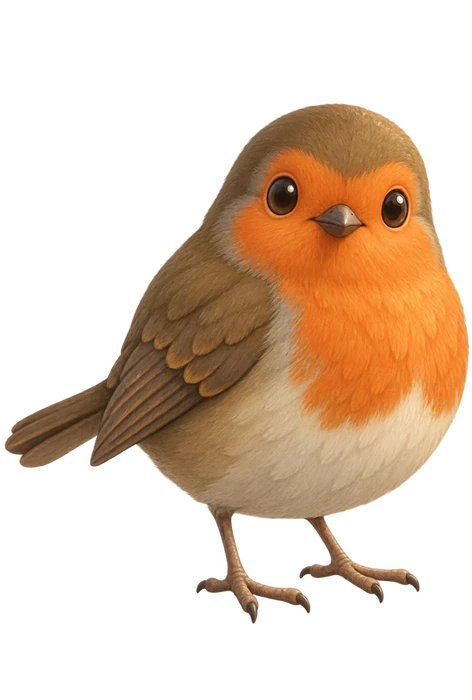
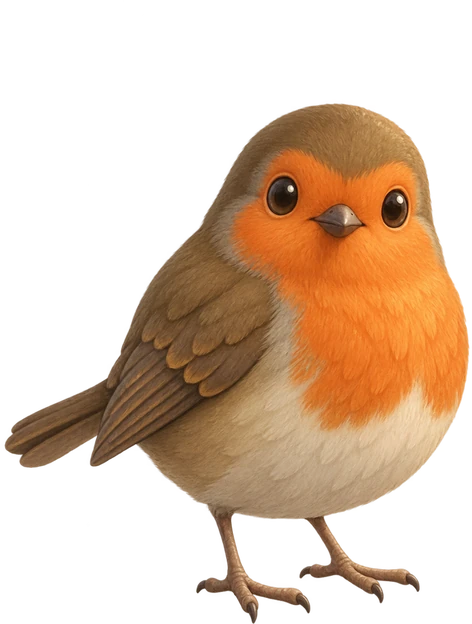
ftb: the robin stands on its perch, and the boot change stops breaking the harnesses
The robin floated above its pedestal and rendered small. One cause for both:
robin-plain.webp carried 76 transparent rows below the feet where all eight
other sanctuary sprites carry none, and SanctuaryPage bottom-aligns a bird onto
its anchor (top = anchor.y - renderedHeight). So 10.9% of the robin's height was
empty air resting on the perch, and its body was squeezed into the remaining
89%. Trimmed to the last opaque row, and its foot centre and costume height
scales recomputed from the trimmed sprite: the foot fraction was 0.5987 against
a measured 0.6568, which stood it left of the perch as well.

Measured, not eyeballed. The manifest's own footNote describes this exact
failure for the sparrow; the same measurement reproduces the shipped sparrow
scales (hat 1.2045 against 1.2033), which is what makes the robin's numbers
wrong rather than differently-derived. The sparrow and bluebird anchors were
checked against a render of the page's own placement maths and left alone.

Also from review of the branch:

- boot.spec, debug-autoplay and the runtime profile all wait for #home-shell,
  which a fresh install no longer opens on, so all four would have hung 30s and
  failed. They seed the first-launch flag and present as a returning player,
  which is the state they were always testing.
- levels.ts passed a hardcoded 'image/png' for every sprite blob, mislabelling
  the cache for assets that are now WebP. It uses mimeForAssetPath, which was
[…]

diff --git a/games/find_the_bird/src/config/remoteConfigSchema.ts b/games/find_the_bird/src/config/remoteConfigSchema.ts
@@ -1,33 +1,3 @@
-  //   L6  sparrow card (the Collection opens at L5, empty)
-  //   L10 build the nest box (4), on the level the Sanctuary opens
-  //   L15 sparrow hat (5)             L23 tier 2, which opens the robin (8)
-  //   L27 robin card (4)              L35 sparrow costume (8)
-  //   L39 tier 3 (4)                  L43 robin hat, which opens the bluebird (4)
-  //   L48 robin costume (5)           L57 bluebird card (9)
-  //   L70 bluebird hat (13)           L76 bluebird costume (6)
-  //
-  // The rungs are also capped by what a LATE opener can still find, since a
-  // species counts only from the level its card opens. At these numbers the
-  // sparrow has 210 laid down from the gate against 150 needed, the robin
-  // finishes even if its card opens as late as L45 (101 left against 100) and
-  // the bluebird as late as L65 (52 against 50) — both a shade better than the
-  // 2026-09-18 numbers, because the earlier gates lay more down. The order
-  // holds for a player who collects idle coins at any frequency and for one who
-  // buys a hint bundle every fifteen levels.
-  //
-  // The sparrow's costume went 130 -> 150 to keep it behind the robin card: at
-  // 130 the extra early supply pulled it forward onto the same level, which
-  // --coverage and the order check both caught.
-  //
-  // The bluebird's hat is the one gap over seven levels. It is the scarcest
-  // species that has card art, so its pace is supply-bound: fixing it properly
-  // means giving the third card a better-supplied species and regenerating its
-  // artwork, which was considered and declined.
-  //
-  // housePriceTier1 went 500 -> 400 with these gates: at 500 the nest box
-  // became buyable on L13, three levels after the Sanctuary opened, because the
-  // gate moved and the price did not. 400 is the stock a player holds arriving
-  // at L10, so the build lands on the level the tile opens, as it did before.
 import {
   booleanField,
   numberField,
@@ -174,6 +144,36 @@ export const REMOTE_CONFIG_DEFAULTS: RemoteConfigValues = {
   // Measured order for a player who banks their coins, by the level they are
   // ENTERING when the game offers it (both tiles are arrival-based), with the
   // gap in levels:
+  //   L6  sparrow card (the Collection opens at L5, empty)
+  //   L10 build the nest box (4), on the level the Sanctuary opens
+  //   L15 sparrow hat (5)             L23 tier 2, which opens the robin (8)
+  //   L27 robin card (4)              L35 sparrow costume (8)
+  //   L39 tier 3 (4)                  L43 robin hat, which opens the bluebird (4)
+  //   L48 robin costume (5)           L57 bluebird card (9)
+  //   L70 bluebird hat (13)           L76 bluebird costume (6)
+  //
+  // The rungs are also capped by what a LATE opener can still find, since a
+  // species counts only from the level its card opens. At these numbers the
+  // sparrow has 210 laid down from the gate against 150 needed, the robin
+  // finishes even if its card opens as late as L45 (101 left against 100) and
+  // the bluebird as late as L65 (52 against 50) — both a shade better than the
+  // 2026-09-18 numbers, because the earlier gates lay more down. The order
+  // holds for a player who collects idle coins at any frequency and for one who
+  // buys a hint bundle every fifteen levels.
+  //
+  // The sparrow's costume went 130 -> 150 to keep it behind the robin card: at
+  // 130 the extra early supply pulled it forward onto the same level, which
+  // --coverage and the order check both caught.
+  //
+  // The bluebird's hat is the one gap over seven levels. It is the scarcest
+  // species that has card art, so its pace is supply-bound: fixing it properly
+  // means giving the third card a better-supplied species and regenerating its
+  // artwork, which was considered and declined.
+  //
+  // housePriceTier1 went 500 -> 400 with these gates: at 500 the nest box
+  // became buyable on L13, three levels after the Sanctuary opened, because the
+  // gate moved and the price did not. 400 is the stock a player holds arriving
+  // at L10, so the build lands on the level the tile opens, as it did before.
   //   L12 sparrow card (the Collection opens at L10, empty)
   //   L15 build the nest box (3)      L20 sparrow hat (5)
   //   L25 tier 2, which opens the robin (5)      L32 robin card (7)

diff --git a/games/find_the_bird/tests/unit/meta-gate-defaults.test.ts b/games/find_the_bird/tests/unit/meta-gate-defaults.test.ts
@@ -1,0 +1,53 @@
+/**
+ * The shipped values of the gates and the sparrow ladder.
+ *
+ * The rest of the suite reads these numbers out of config to build its
+ * expectations, which makes those assertions true for any value — reverting
+ * a gate would not fail a single test. This file pins the numbers themselves,
+ * so a change to them has to be deliberate and has to come here.
+ *
+ * They are not arbitrary: tools/birdtypes/cadence_report.py walks a player
+ * through all 92 levels and checks the progression order holds. Re-run it
+ * (and --coverage) before changing anything here.
+ */
+import { describe, expect, it } from 'vitest';
+import { REMOTE_CONFIG_DEFAULTS } from '../../src/config/remoteConfigSchema';
+
+describe('meta gate + ladder defaults', () => {
+  it('opens the Collection at level 5 and the Sanctuary at level 10', () => {
+    expect(REMOTE_CONFIG_DEFAULTS.collectionUnlockLevel).toBe(5);
+    expect(REMOTE_CONFIG_DEFAULTS.sanctuaryUnlockLevel).toBe(10);
+  });
+
+  it('keeps the Sanctuary behind the Collection', () => {
+    expect(REMOTE_CONFIG_DEFAULTS.sanctuaryUnlockLevel)
+      .toBeGreaterThanOrEqual(REMOTE_CONFIG_DEFAULTS.collectionUnlockLevel);
+  });
+
+  it('pins the sparrow ladder the cadence report was run against', () => {
+    expect(REMOTE_CONFIG_DEFAULTS.sparrowTeaseCount).toBe(2);
+    expect(REMOTE_CONFIG_DEFAULTS.sparrowUnlockCount).toBe(5);
+    expect(REMOTE_CONFIG_DEFAULTS.sparrowHatCount).toBe(50);
+    expect(REMOTE_CONFIG_DEFAULTS.sparrowCardiganCount).toBe(150);
+  });
+
+  it('keeps every ladder monotonic, tease before unlock', () => {
+    for (const bird of ['sparrow', 'robin', 'bluebird'] as const) {
+      const unlock = REMOTE_CONFIG_DEFAULTS[`${bird}UnlockCount`];
+      const hat = REMOTE_CONFIG_DEFAULTS[`${bird}HatCount`];
+      const cardigan = REMOTE_CONFIG_DEFAULTS[`${bird}CardiganCount`];
+      expect(unlock, bird).toBeLessThan(hat);
+      expect(hat, bird).toBeLessThan(cardigan);
+    }
+    expect(REMOTE_CONFIG_DEFAULTS.sparrowTeaseCount)
+      .toBeLessThan(REMOTE_CONFIG_DEFAULTS.sparrowUnlockCount);
+  });
+
+  it('lands the nest box on the level the Sanctuary opens', () => {
+    // 45 coins a level, banked from level 1: the price is the stock a player
+    // holds on arrival at the gate. 400 -> L10, which is why it moved off 500.
+    expect(REMOTE_CONFIG_DEFAULTS.housePriceTier1).toBe(400);
+    const banked = 45 * (REMOTE_CONFIG_DEFAULTS.sanctuaryUnlockLevel - 1);
+    expect(REMOTE_CONFIG_DEFAULTS.housePriceTier1).toBeLessThanOrEqual(banked);
+  });
+});

diff --git a/games/find_the_bird/tests/e2e/boot.spec.ts b/games/find_the_bird/tests/e2e/boot.spec.ts
@@ -1,6 +1,9 @@
 import { createHash } from "node:crypto";
 import { readFileSync } from "node:fs";
 import { join } from "node:path";
+// A fresh install now boots into GameScene, so every spec that wants the home
+// menu has to present as a returning player. This seeds the one-shot flag
+// BootScene reads (GameState STORAGE_KEYS.FIRST_LAUNCH_DONE).
 import { test, expect } from "@playwright/test";
 
[1 lines of base64/hex data omitted]
@@ -13,6 +16,7 @@ function sha256File(path: string): string {
 }
 
 test("boots the real Find the Dog shell", async ({ page }) => {
+  await page.addInitScript(() => window.localStorage.setItem("ftb_first_launch_done", "1"));
   await page.goto("/");
   await expect(page.locator("#game-container")).toBeVisible();
   await expect(page.locator("#hud-overlay")).toBeAttached();
@@ -25,7 +29,10 @@ test("boots the real Find the Dog shell", async ({ page }) => {
 });
 
 test("Play Now starts the current level from a real menu tap", async ({ page }) => {
-  await page.addInitScript(() => window.localStorage.clear());
+  await page.addInitScript(() => {
+    window.localStorage.clear();
+    window.localStorage.setItem("ftb_first_launch_done", "1");
+  });
   await page.goto("/");
   await expect(page.locator("#home-play-now")).toBeVisible({ timeout: 30000 });
 
@@ -67,7 +74,10 @@ test.describe("home menu polish regressions", () => {
     expect(manifest.assets["design/assets/play-level-button-runtime.png"].sha256).toBe(PLAY_BUTTON_SHA256);
     expect(manifest.assets["design/assets/play-level-button-runtime.png"].v1Sha256).toBe(PLAY_BUTTON_SHA256);
 
-    await page.addInitScript(() => window.localStorage.clear());
+    await page.addInitScript(() => {
+    window.localStorage.clear();
+    window.localStorage.setItem("ftb_first_launch_done", "1");
+  });
     await page.goto("/");
     await expect(page.locator("#home-shell")).toBeVisible({ timeout: 30000 });
     await page.waitForFunction(() => {

diff --git a/games/find_the_bird/tests/e2e/debug-autoplay.spec.ts b/games/find_the_bird/tests/e2e/debug-autoplay.spec.ts
@@ -1,4 +1,7 @@
 // Manual diagnostic: run with VITE_ENABLE_TEST_HARNESS=true against a dev server on a free port (5199 is often taken by another session).
+// A fresh install now boots into GameScene, so every spec that wants the home
+// menu has to present as a returning player. This seeds the one-shot flag
+// BootScene reads (GameState STORAGE_KEYS.FIRST_LAUNCH_DONE).
 import { test, expect } from "@playwright/test";
 
 type W = Window & { __FIND_DOG_GAME__?: { scene: { isActive: (k: string) => boolean } } };
@@ -8,7 +11,10 @@ test("debug auto play collects birds and advances", async ({ page }) => {
   const errors: string[] = [];
   page.on("pageerror", (e) => errors.push(String(e).slice(0, 200)));
   page.on("console", (m) => { if (m.type() === "error") errors.push(m.text().slice(0, 200)); });
-  await page.addInitScript(() => window.localStorage.clear());
+  await page.addInitScript(() => {
+    window.localStorage.clear();
+    window.localStorage.setItem("ftb_first_launch_done", "1");
+  });
   await page.goto("/");
   await expect(page.locator("#home-play-now")).toBeVisible({ timeout: 30000 });
   await page.locator("#home-play-now").click({ force: true });

diff --git a/games/find_the_bird/src/data/levels.ts b/games/find_the_bird/src/data/levels.ts
@@ -1080,7 +1080,9 @@ async function loadLevelFromEntry(id: string, entry: ManifestLevelEntry, useCach
         const blob = await fetchAssetBlob(
           spriteAsset.hash,
           spriteAsset.path,
-          'image/png',
+          // Sprites ship as WebP since 2026-09-19; the extension decides the
+          // type, so a hardcoded png here mislabels every cached sprite.
+          mimeForAssetPath(spriteAsset.path),
           entry.bundled,
           OPTIONAL_SPRITE_FETCH_TIMEOUT_MS,
         );
